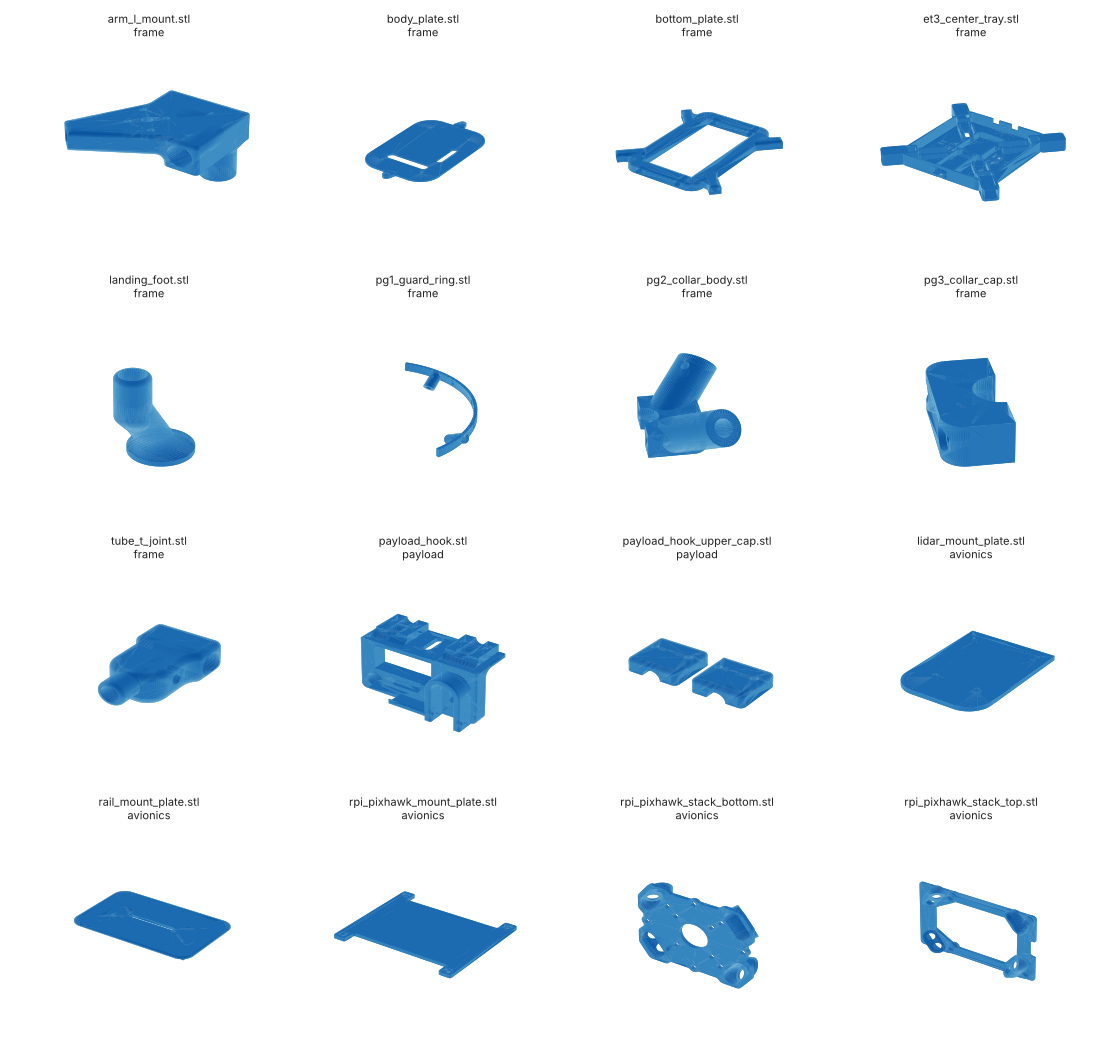
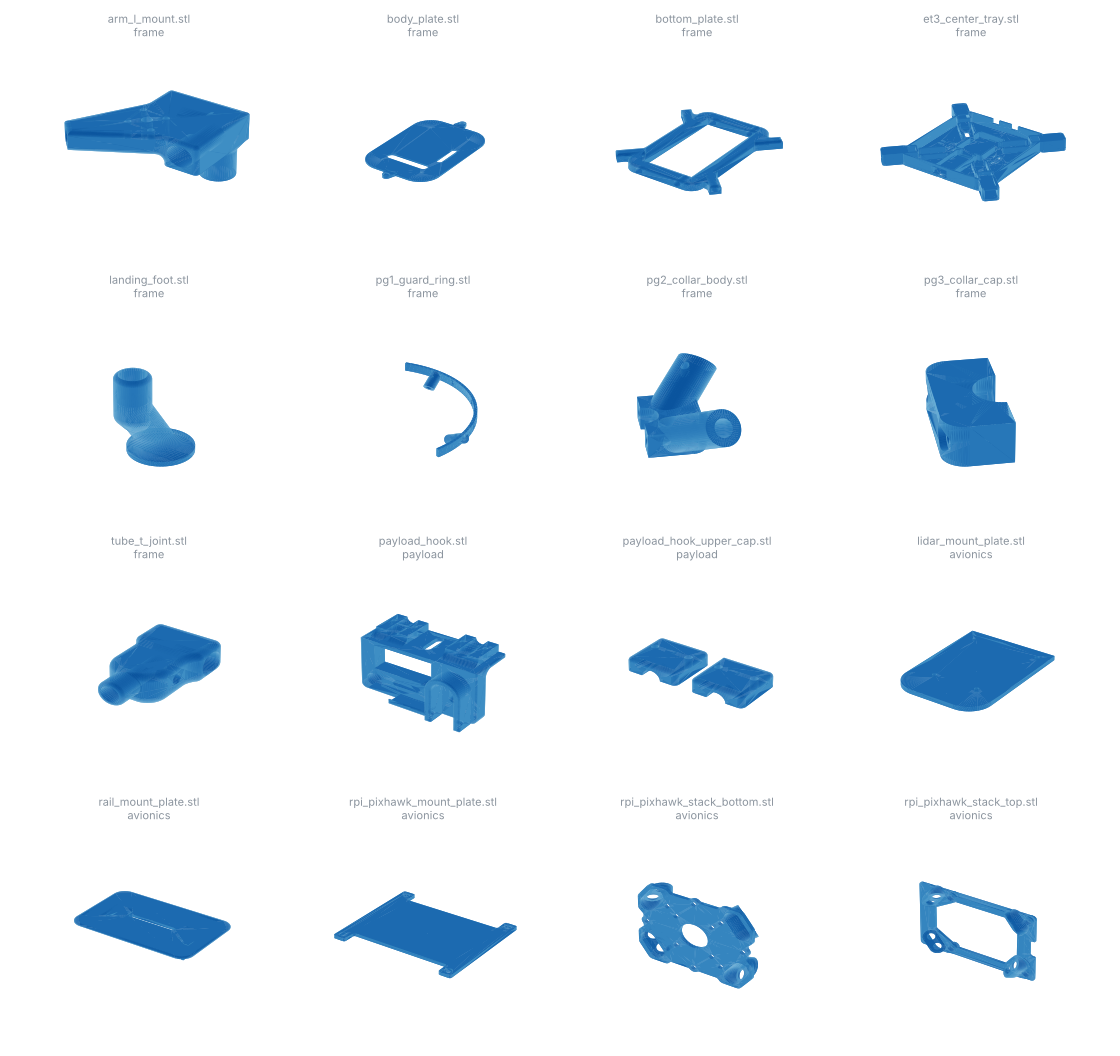
Final polish of documentation and layout
- README: realigned system and mission diagrams, complete repository
  tree, new Digital simulator section, matched photo heights, correct
  counts (28 logs, 19 CAD parts in 20 files)
- Drop IMG_7617.MOV from docs (not included by choice)
- CAD overview image with transparent background for dark mode
- Minor wording fixes in tools/README

Claude-Session: https://claude.ai/code/session_012wyKQVxe2rp66Zw1sSpyLK

diff --git a/README.md b/README.md
@@ -7,9 +7,9 @@ AVION is a quadcopter built by Team Avion at BVM (Birla Vishvakarma Mahavidyalay
 Project mentor: Dr. Dipak M. Patel
 
 <p align="center">
-  <img src="docs/images/avion_side_view.jpg" width="49%" alt="AVION on the test field, side view">
-  <img src="docs/images/avion_three_quarter_view.jpg" width="24%" alt="AVION, three-quarter view">
-  <img src="docs/images/avion_top_view.jpg" width="24%" alt="AVION, top view">
+  <img src="docs/images/avion_side_view.jpg" height="280" alt="AVION on the test field, side view">
+  <img src="docs/images/avion_three_quarter_view.jpg" height="280" alt="AVION, three-quarter view">
+  <img src="docs/images/avion_top_view.jpg" height="280" alt="AVION, top view">
 </p>
 
 ---
@@ -22,6 +22,7 @@ Project mentor: Dr. Dipak M. Patel
 - [Flight software](#flight-software)
 - [Mission sequence](#mission-sequence)
 - [Ground control station and digital twin](#ground-control-station-and-digital-twin)
+- [Digital simulator](#digital-simulator)
 - [Getting started](#getting-started)
 - [Configuration reference](#configuration-reference)
 - [Bench tests and prototypes](#bench-tests-and-prototypes)
@@ -35,56 +36,65 @@ Project mentor: Dr. Dipak M. Patel
 ## System overview
 
 ```
-                ┌──────────────────────── Operator laptop / phone ───────────────────────┐
-                │  Browser → http://<pi-ip>:5000   (live video · 3D twin · telemetry ·   │
-                │                                   APPROACH / IGNORE · reload · ABORT)  │
-                └───────────────────────────────▲────────────────────────────────────────┘
-                                                │ Wi-Fi (Flask + Socket.IO, 10 Hz telemetry,
-                                                │        MJPEG camera stream)
-┌────────────────────────── Raspberry Pi 4 (companion computer) ─────────────────────────┐
-│  main.py                                                                               │
-│   ├── mission_manager.py   two-phase state machine (red drop → reload → blue drop)     │
-│   ├── vision.py            D455 RGB + aligned depth, HSV colour detection, 3 zones      │
-│   ├── flight_controller.py DroneKit / MAVLink wrapper, position hold, yaw, servo, watchdog│
-│   ├── rover.py             optional ground-drive mode (TB6612 via pigpio, RC CH6)      │
-│   └── gui.py + gui_assets/ ground control station served from the Pi (works offline)  │
-└───────────────▲───────────────────────────────────────────────▲────────────────────────┘
-                │ USB (MAVLink, /dev/ttyACM0 @ 57600)            │ USB 3
-┌───────────────┴─────────────────┐                   ┌─────────┴──────────────┐
-│ Pixhawk 2.4.8 · ArduCopter 4.7  │                   │ Intel RealSense D455   │
-│ GPS · ESCs · AUX1 → payload hook│                   │ 640×480 @ 15 fps RGB-D │
-└─────────────────────────────────┘                   └────────────────────────┘
+┌─────────────────────────────── Operator laptop / phone ────────────────────────────────┐
+│ Browser → http://<pi-ip>:5000                                                          │
+│ live camera · 3D digital twin · telemetry · APPROACH / IGNORE · reload · ABORT         │
+└────────────────────────────────────────────────────────────────────────────────────────┘
+                                             ▲
+                                             │  Wi-Fi: Socket.IO telemetry (10 Hz) + MJPEG video
+                                             ▼
+┌───────────────────────── Raspberry Pi 4 · companion computer ──────────────────────────┐
+│ main.py                                                                                │
+│ ├── mission_manager.py    two-phase state machine: red drop → reload → blue drop       │
+│ ├── vision.py             D455 RGB + aligned depth, HSV colour detection, 3 zones      │
+│ ├── flight_controller.py  DroneKit / MAVLink: position hold, yaw, servo, watchdog      │
+│ ├── rover.py              optional ground-drive mode (TB6612 via pigpio, RC CH6)       │
+│ └── gui.py + gui_assets/  ground control station served from the Pi (offline)          │
+└────────────────────────────────────────────────────────────────────────────────────────┘
+                  ▲                                                     ▲
+                  │ USB · MAVLink @ 57600                               │ USB 3
+                  ▼                                                     ▼
+┌───────── Pixhawk 2.4.8 ──────────┐                  ┌────── Intel RealSense D455 ──────┐
+│ ArduCopter 4.7 · GPS · ESCs      │                  │ 640×480 @ 15 fps                 │
+│ AUX1 → payload hook servo        │                  │ RGB + aligned depth              │
+└──────────────────────────────────┘                  └──────────────────────────────────┘
 ```
 
 ## Repository layout
 
 ```
 AVION/
-├── flight_software/          Code that runs on the Raspberry Pi (run from this folder)
-│   ├── main.py               Entry point: connects Pixhawk + camera, starts mission, rover, GUI
-│   ├── config.py             All tunable parameters (edit before every flight)
-│   ├── mission_manager.py    Autonomous state machine with operator confirmation
-│   ├── flight_controller.py  DroneKit/MAVLink wrapper: arm, takeoff, velocity, yaw, servo, watchdog
-│   ├── vision.py             RealSense D455 pipeline: red/blue detection, depth sampling, HUD
-│   ├── rover.py              Ground-drive mode: RC-controlled differential drive
-│   ├── gui.py                Flask + Socket.IO ground control station (port 5000)
-│   ├── calibrate_hsv.py      Web HSV tuner (port 5001); writes thresholds into config.py
-│   ├── logger.py             Timestamped file + console logging to logs/
-│   ├── gui_assets/           GCS page, 3D twin model, three.js, socket.io, fonts (all local)
-│   └── logs/                 Flight logs from test sessions, 2–9 Oct 2026
+├── flight_software/                   Code that runs on the Raspberry Pi (run from this folder)
+│   ├── main.py                        Entry point: connects Pixhawk and camera, starts mission and GUI
+│   ├── config.py                      All tunable parameters (edit before every flight)
+│   ├── mission_manager.py             Autonomous state machine with operator confirmation
+│   ├── flight_controller.py           DroneKit/MAVLink: arm, takeoff, velocity, yaw, servo, watchdog
+│   ├── vision.py                      RealSense D455 pipeline: red/blue detection, depth sampling, HUD
+│   ├── rover.py                       Ground-drive mode: RC-controlled differential drive
+│   ├── gui.py                         Flask + Socket.IO ground control station (port 5000)
+│   ├── calibrate_hsv.py               Web HSV tuner (port 5001); writes thresholds into config.py
+│   ├── logger.py                      Timestamped file + console logging to logs/
+│   ├── gui_assets/                    GCS page, 3D twin model, three.js, Socket.IO, fonts (all local)
+│   └── logs/                          28 flight logs from test sessions, 2–9 Oct 2026
+├── simulator/
+│   ├── avion_digital_simulator.html   Browser-based 3D digital twin and mission simulator
+│   └── README.md
+├── cad/
+│   ├── frame/                         Centre tray, plates, tube joints, collars, clamps, landing foot
+│   ├── payload/                       Servo release hook and cap
+│   ├── avionics/                      Pi/Pixhawk stack, sensor and camera mounts
+│   ├── avion_assembly.step            Full airframe assembly
+│   └── README.md                      Parts list with sizes and original names
 ├── tools/
-│   ├── bench/                Hardware bring-up tests: motors, camera, depth, hover
-│   └── prototypes/           Early single-file pymavlink scripts that led to flight_software/
-├── cad/                      Printable and editable parts, grouped by subsystem
-│   ├── frame/                Centre tray, plates, tube joints, collars, clamps, landing feet
-│   ├── payload/              Servo release hook and cap
-│   └── avionics/             Pi/Pixhawk stack, sensor and camera mounts
+│   ├── bench/                         Hardware bring-up tests: motors, camera, depth, hover
+│   ├── prototypes/                    Early single-file scripts that led to flight_software/
+│   └── README.md
 ├── docs/
-│   ├── images/               Photos, screenshots, CAD overview
-│   ├── avion_presentation.pptx  Project presentation
-│   └── SOURCE_MANIFEST.md    Every Drive file mapped to its repository path (checksum-verified)
-├── simulator/                Browser-based 3D digital twin and mission simulator
-└── requirements.txt
+│   ├── images/                        Photos, screenshots, CAD overview
+│   ├── avion_presentation.pptx        Project presentation
+│   └── SOURCE_MANIFEST.md             Every Drive file mapped to its repository path
+├── requirements.txt
+└── README.md
 ```
 
 ## Hardware
@@ -128,19 +138,23 @@ The mission is a two-phase delivery. The first parcel goes to a **red** target, 
 
 ```
 IDLE → PREFLIGHT → ARMING → TAKEOFF (1.7 m) → HOVER (2 s)
-   │
-   ├─ PHASE 1 · RED ─────────────────────────────────────────────────────────┐
-   │   YAW_SEARCH → TARGET_LOCK → CONFIRM_TARGET ──IGNORE──┐                 │
-   │        ▲                         │ APPROACH           │ blacklist object│
-   │        └─────────────────────────┼────────────────────┘ and keep sweeping
-   │                                  ▼                                      │
-   │                      ALIGN → APPROACH → DROP                            │
-   └──────────────────────────────────────────────────────────────────────────┘
-   → RETURN_HOME → RELOAD (operator: CLOSE HOOK → RELOAD DONE)
-   ├─ PHASE 2 · BLUE  (same search / confirm / align / approach / drop) ─────┤
-   → RETURN_HOME → LAND → COMPLETE
+  │
+  ▼
+PHASE 1 · RED target
+  YAW_SEARCH → TARGET_LOCK → CONFIRM_TARGET ──APPROACH──▶ ALIGN → APPROACH → DROP
+       ▲                           │
+       └────────── IGNORE ─────────┘   object is blacklisted, sweep continues
+  │
+  ▼
+RETURN_HOME → RELOAD   (operator presses CLOSE HOOK, then RELOAD DONE)
+  │
+  ▼
+PHASE 2 · BLUE target  (same search → confirm → align → approach → drop)
+  │
+  ▼
+RETURN_HOME → LAND → COMPLETE
 
-   ABORT at any time → stop, land in place.   Heartbeat lost → LAND.
+ABORT at any time → stop and land in place.   Heartbeat lost > 3 s → LAND.
 ```
 
 | Stage | What happens |
@@ -170,6 +184,12 @@ Open `http://<pi-ip>:5000` from any device on the same network. The page (`gui_a
 - A Drone/Rover mode toggle
 
 three.js, Socket.IO and the fonts are all served from `gui_assets/`, so the GCS works at a venue with no internet access.
+
+## Digital simulator
+
+[`simulator/avion_digital_simulator.html`](simulator/) is a self-contained 3D digital twin that runs in any browser. It flies the full relief mission (base camp → broken bridge → cut-off village) with operator-confirmed drops, and it also offers manual flight, a clickable assembly inspector, wind settings and a low-battery failsafe test. See [`simulator/README.md`](simulator/README.md).
+
+<p align="center"><img src="docs/images/digital_simulator.jpg" width="85%" alt="Avion Digital Simulator"></p>
 
 ## Getting started
 
@@ -240,21 +260,21 @@ See [`tools/README.md`](tools/README.md) for details.
 | `tools/bench/cam_test.py` | D455 as a plain USB webcam, without librealsense; streams to port 8000 |
 | `tools/bench/depth_test.py` | Live RGB and depth side by side, click-to-measure, valid-pixel percentage |
 | `tools/bench/hover_test.py` | Arm, take off to 2 m, hover 5 s, land |
-| `tools/prototypes/*` | Early standalone pymavlink scripts: takeoff/land, forward flight, auto yaw, hook servo, payload delivery, image capture |
+| `tools/prototypes/*` | Early standalone scripts: takeoff/land, forward flight, auto yaw, hook servo, payload delivery, image capture |
 
 ## CAD
 
-[`cad/`](cad/) holds 20 parts grouped into `frame/`, `payload/` and `avionics/`, in STL (for printing), STEP (for editing) and 3MF (slicer project). [`cad/README.md`](cad/README.md) lists every part with its size, purpose and original file name. The full airframe assembly is [`cad/avion_assembly.step`](cad/avion_assembly.step).
+[`cad/`](cad/) holds 19 parts (20 files) grouped into `frame/`, `payload/` and `avionics/`, in STL (for printing), STEP (for editing) and 3MF (slicer project). [`cad/README.md`](cad/README.md) lists every part with its size, purpose and original file name. The full airframe assembly is [`cad/avion_assembly.step`](cad/avion_assembly.step).
 
 <p align="center"><img src="docs/images/cad_parts_overview.png" width="85%" alt="Overview of all printable AVION parts"></p>
 
 ## Flight logs
 
-[`flight_software/logs/`](flight_software/logs/) contains 30 logs from the test sessions on 2–9 October 2026. Each one records the startup banner, Pixhawk firmware and pre-arm messages, every state transition, detection and depth readings, and operator actions. They are useful for tuning and for seeing how the mission logic changed over the week of testing. The test-site GPS coordinates in these logs were replaced with `[redacted]` before publishing.
+[`flight_software/logs/`](flight_software/logs/) contains 28 logs from the test sessions on 2–9 October 2026. Each one records the startup banner, Pixhawk firmware and pre-arm messages, every state transition, detection and depth readings, and operator actions. They are useful for tuning and for seeing how the mission logic changed over the week of testing. The test-site GPS coordinates in these logs were replaced with `[redacted]` before publishing.
 
 ## Large files
 
-Every file in the team's Drive folder is accounted for in [`docs/SOURCE_MANIFEST.md`](docs/SOURCE_MANIFEST.md).
+The largest project files and where to find them. Every file from the team's Drive folder is accounted for in [`docs/SOURCE_MANIFEST.md`](docs/SOURCE_MANIFEST.md).
 
 | File | Size | Location |
 |---|---|---|
@@ -262,7 +282,6 @@ Every file in the team's Drive folder is accounted for in [`docs/SOURCE_MANIFEST
 | Project presentation | 9.3 MB | [`docs/avion_presentation.pptx`](docs/avion_presentation.pptx) |
 | Full airframe assembly | 43 MB | [`cad/avion_assembly.step`](cad/avion_assembly.step) |
 | Project description video | 70 MB | [Download from Release v1.0.0](https://github.com/Dwijvyas-9926/AVION/releases/download/v1.0.0/avion.description.video.mp4) |
-| Flight test footage (`IMG_7617.MOV`) | 196 MB | Google Drive only; it exceeds GitHub's 100 MB limit for repository files |
 
 ## Known issues and notes
 

diff --git a/docs/SOURCE_MANIFEST.md b/docs/SOURCE_MANIFEST.md
@@ -75,7 +75,7 @@ The `venv/` folder (a Python virtual environment with third-party packages) and 
 | AVION Gallery | `IMG_5630 (1).JPG` | 6.13 MB | `docs/images/avion_three_quarter_view.jpg` | Resized to 2400 px, metadata (incl. GPS) removed — duplicate of IMG_5630.JPG |
 | AVION Gallery | `IMG_5630.JPG` | 6.13 MB | `docs/images/avion_three_quarter_view.jpg` | Resized to 2400 px, metadata (incl. GPS) removed |
 | AVION Gallery | `reload_popup_step2.png` | 219.3 KB | `docs/images/gcs_reload_prompt.png` | Identical (MD5 verified) |
-| AVION Gallery | `IMG_7617.MOV` | 195.82 MB | — | Drive only: over GitHub's 100 MB file limit |
+| AVION Gallery | `IMG_7617.MOV` | 195.82 MB | — | Not included (by choice) |
 | AVION CAD Files | `AVION ASSEMBLY.step` | 43.33 MB | `cad/avion_assembly.step` | Identical (size verified via release upload) |
 | AVION CAD Files | `plate_lidar.stl` | 27.5 KB | `cad/avionics/lidar_mount_plate.stl` | Identical (MD5 verified) |
 | AVION CAD Files | `hook upper cap.stl` | 189.1 KB | `cad/payload/payload_hook_upper_cap.stl` | Identical (MD5 verified) |

diff --git a/tools/README.md b/tools/README.md
@@ -15,7 +15,7 @@ Run these in order when setting up a new Pi or after changing hardware.
 
 ## `prototypes/`: early experiments
 
-These are the standalone pymavlink scripts the team used to prove each capability before it went into `flight_software/`. They are kept for reference and are not used by the mission code.
+These are the standalone scripts the team used to prove each capability before it went into `flight_software/`. They are kept for reference and are not used by the mission code.
 
 | Script | Original name | Purpose |
 |---|---|---|
